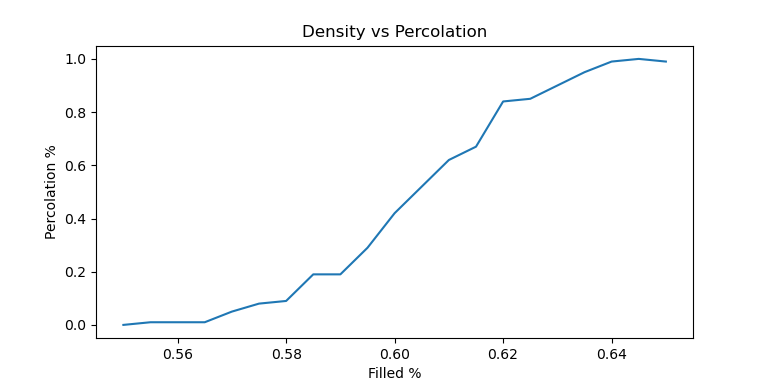
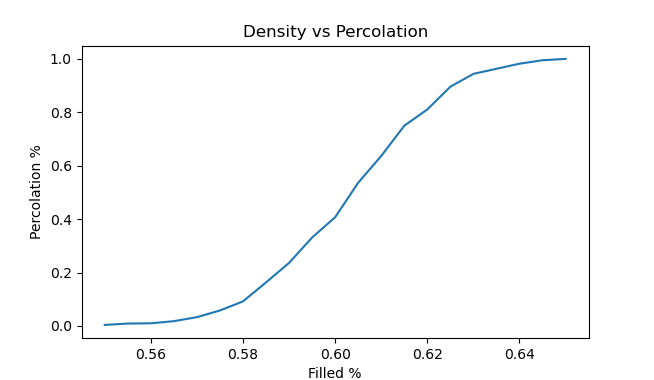
almost done with this stuffs

diff --git a/percolation/stones.py b/percolation/stones.py
@@ -10,11 +10,12 @@ import numpy as np
 import hoshen_kopelman
 
 parser = argparse.ArgumentParser(
-                    prog='ProgramName',
-                    description='What the program does',
-                    epilog='Text at the bottom of help')
+    prog="ProgramName",
+    description="What the program does",
+    epilog="Text at the bottom of help",
+)
 
-parser.add_argument('-f', '--file')           # positional argument
+parser.add_argument("-f", "--file")  # positional argument
 args = parser.parse_args()
 
 
@@ -174,64 +175,62 @@ def conduct_expirement(size, p):
 print(args.file)
 print()
 
-size = 1000
+size = 100
 # p = 0.5
 
 no_paths = 0
 percolated = 0
 
+
 def run_simulation():
 
     trials = 1000
 
-    
-    start = 0.55
-    stop = 0.65
-    step = 0.005
-    
+    start = 0
+    stop = 1
+    step = 0.05
+
     # should be stop - step but computers cant do math lol
-    span = 0.1
-    
+    span = 1
+
     points = int(span / step) + 1
     print(points)
-    
+
     probs = np.linspace(start, stop, points)
     print(probs)
     sucesses = [0 for i in range(points)]
-    
+
     index = 0
-    
+
     num_threads = 4
-    
+
     for p in probs:
-    
+
         print(f"\r\x1b[2kPercent Done: {round(index / points * 100, 2)}%", end="")
-    
+
         percolated = 0
-    
+
         threads = [0 for i in range(num_threads)]
-    
+
         i = 0
         while i < trials:
             percolated += conduct_expirement(size, p)
             i += 1
-    
+
         sucesses[index] = percolated / trials
         index += 1
 
     data = {
-            "sucesses": sucesses,
-            "probs": probs,
-            "start": start,
-            "stop": stop,
-            "step": step,
-            }
+        "sucesses": sucesses,
+        "probs": probs,
+        "start": start,
+        "stop": stop,
+        "step": step,
+    }
 
     return data
 
     # print()
-
-print(f"\r\x1b[2KDone!")
 
 
 def load_data(path):
@@ -240,6 +239,13 @@ def load_data(path):
 
 
 def show_graphs(data):
+
+    # print(data)
+    
+    for i in range(len(data["probs"])):
+        print(f"{data['probs'][i]} -- {data['sucesses'][i]}")
+
+    print(data["sucesses"])
 
     sucesses = data["sucesses"]
 
@@ -261,8 +267,8 @@ def show_graphs(data):
         first = sign(second_derivative[i])
         second = sign(second_derivative[i + 1])
 
-        if first == 0:
-            infelctions.append(float(probs[i]))
+        # if first == 0:
+        #     infelctions.append(float(probs[i]))
 
         if first == 1 and second == -1:
             infelctions.append(float(probs[i]))
@@ -279,10 +285,15 @@ def show_graphs(data):
     fig.savefig("figure")
 
 
-data = run_simulation()
+if args.file == None:
+    data = run_simulation()
+    print(f"\r\x1b[2KDone!")
+    with open("data.p", "wb") as file:
+        pickle.dump(data, file)
 
-with open("data.p", "wb") as file:
-    pickle.dump(data, file)
+else:
+    data = load_data(args.file)
+
 
 show_graphs(data)
 
@@ -352,11 +363,11 @@ show_graphs(data)
 # print(f"no paths: \t{no_paths} - {no_paths/trials*100}%")
 # print(f"percolated 👍: \t{percolated} - {percolated/trials*100}%")
 
-fig, ax = plt.subplots()
-ax.set_title("Density vs Percolation")
-ax.set_xlabel("Filled %")
-ax.set_ylabel("Percolation %")
-ax.plot(probs, sucesses)
-plt.show()
-
-fig.savefig("figure")
+# fig, ax = plt.subplots()
+# ax.set_title("Density vs Percolation")
+# ax.set_xlabel("Filled %")
+# ax.set_ylabel("Percolation %")
+# ax.plot(probs, sucesses)
+# plt.show()
+#
+# fig.savefig("figure")
